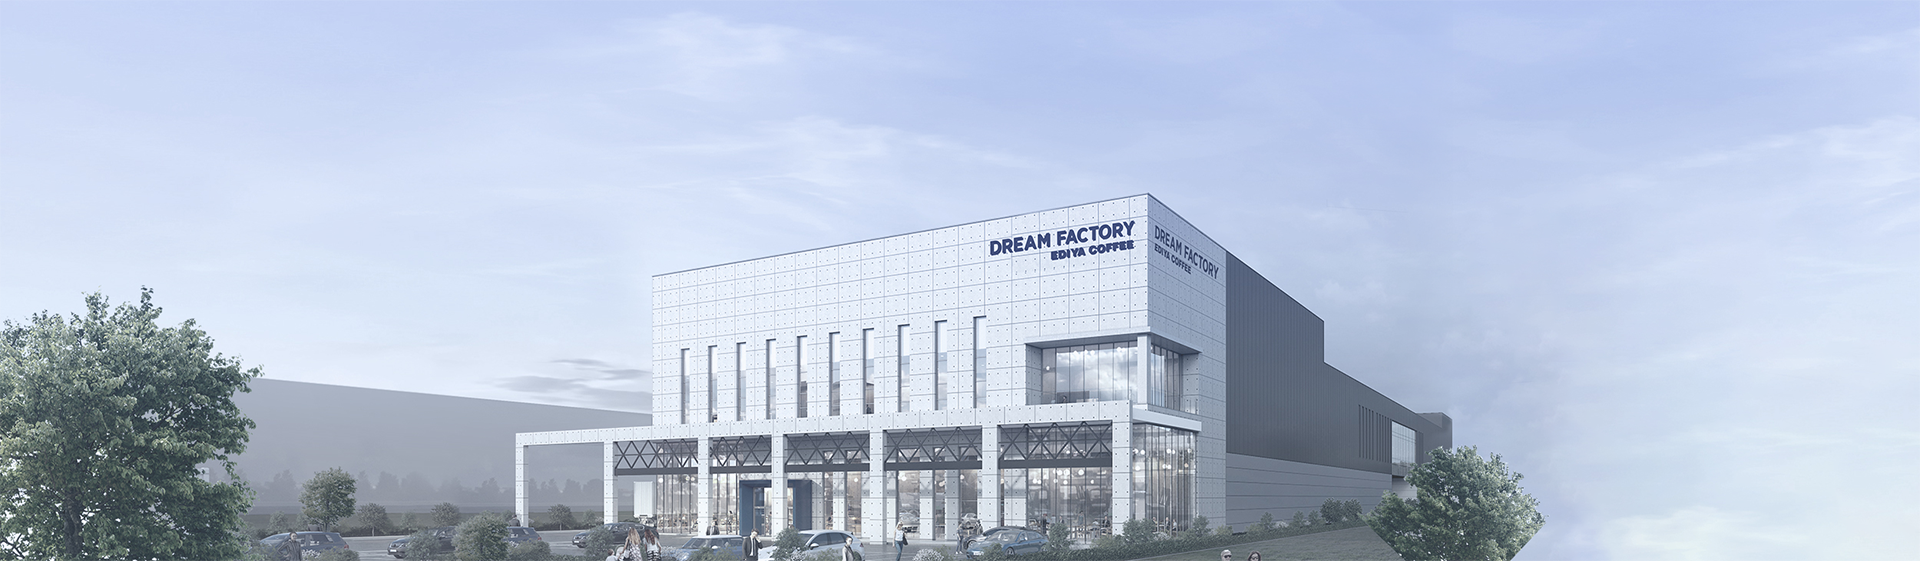
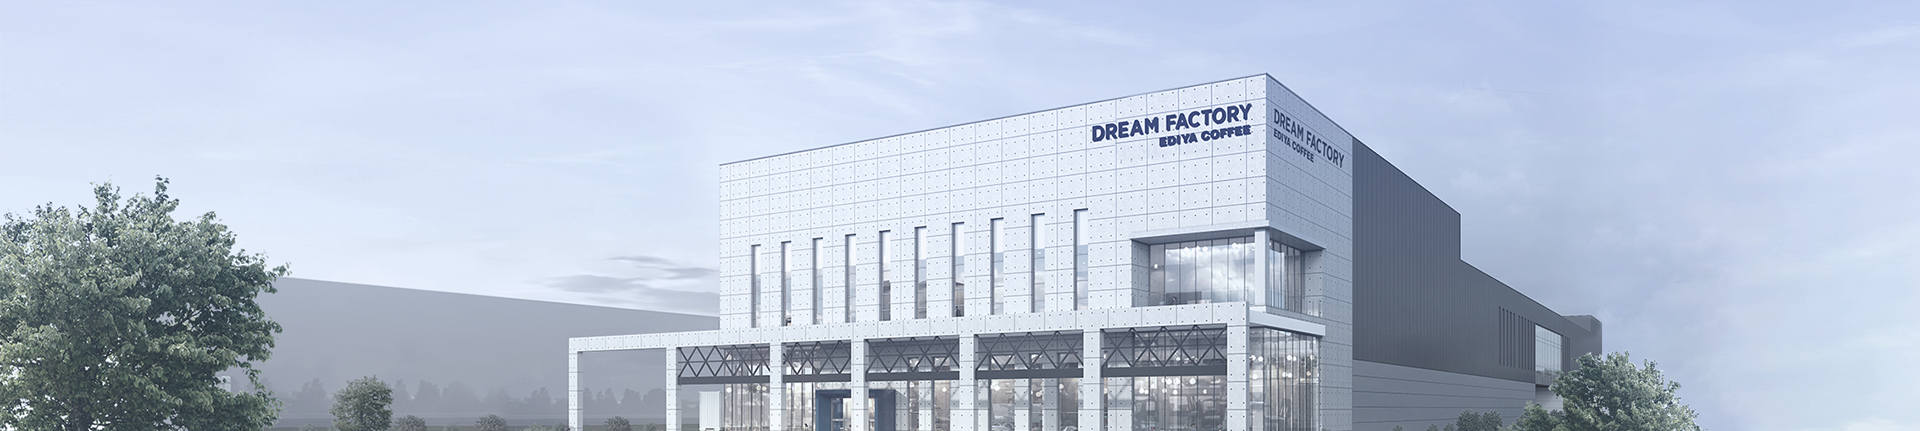
sub

diff --git a/src/story/Story.js b/src/story/Story.js
@@ -1,15 +1,19 @@
 import React from 'react'
 import style from './story.module.css'
 import Footer from '../footer/Footer'
+import '../App.css'; 
 
 const Story = () => {
   return (
     <>
+
       <TopBanner />
       <Ambition />
       <CoreValue />
       <Management />
       <Footer />
+  
+
     </>
 
   )
@@ -18,14 +22,14 @@ const Story = () => {
 function TopBanner(){
   return (
     <>
-      <div className='w-full h-[561px] bg-cover' style={{ backgroundImage: `url(${process.env.PUBLIC_URL}/subtitleBG.png)` }}>
+      <div className='w-full h-[431px] bg-cover' style={{ backgroundImage: `url(${process.env.PUBLIC_URL}/subtitleBG.png)` }}>
 
       </div>
     </>
   )
 }
 
-// 포부 첫번째 섹션
+// 포부 첫번째 섹션 // psd 레이아웃 완료 0816
 function Ambition() {
   return (
     <div className="w-full h-[1885px] bg-white flex justify-center relative">
@@ -33,32 +37,33 @@ function Ambition() {
         Ediya Coffee
       </div>
 
-      <div className="w-[1200px] h-full bg-red-100">
-        <div className="mt-[200px]">
-          <h4 className="text-[52px] font-semibold">
+      <div className="relative w-[1200px] h-full">
+
+        {/* Always Beside You */}
+        <div className="mt-[386px]">
+          <h4 className="text-[52px]  leading-[62px] ">
             Always Beside You,<br />
-            이디야커피는 언제나 당신 곁에 함께 합니다.
+            <span className='font-semibold'>이디야커피는 언제나 당신 곁에 함께 합니다.</span> 
           </h4>
-          <p className="text-black text-[30px] font-semibold mt-8 mb-[26px]">
+          <p className="text-black text-[30px] font-semibold mt-[40px] mb-[20px]">
             커피 한잔의 진심
           </p>
-          <p className="text-[16px] text-black">
-            해외에 로열티를 내지 않는 순수 국내 브랜드 이디야 커피,<br />
-            품질 좋고 맛있는 커피를 합리적인 가격으로 소비자에게<br />
-            제공하는 것을 우리의 진심이라 믿습니다. 더 맛있는<br />
-            커피를 만들기 위해 2010년 커피연구소 설립을 시작으로<br />
-            2016년 4월 '고객과 소통하는 커피연구소'를 테마로<br />
-            [이디야커피랩]을 오픈하여 더 나은 커피를 위해<br />
-            끊임없는 연구 개발을 진행하고 있습니다.
+          <p className="text-[24px] leading-[37px] text-black">
+            해외에 로열티를 내지 않는 순수 국내 브랜드 이디야 커피,품질 좋고 맛있는 커피를 합리적인 가격으로<br />
+            소비자에게 제공하는 것을 우리의 진심이라 믿습니다. 더 맛있는 커피를 만들기 위해 2010년<br /> 커피연구소 설립을 시작으로
+            2016년 4월 '고객과 소통하는 커피연구소'를 테마로 [이디야커피랩]을 오픈하여 더 나은<br /> 
+            커피를 위해 끊임없는 연구 개발을 진행하고 있습니다.
           </p>
         </div>
 
-        <div className="flex justify-between mt-[50px]">
+        {/* 상생협력 */}
+        <div className="flex justify-between mt-[282px]">
           <div className="text-black">
-            <h4 className="text-[52px] text-[#243c84] font-semibold">
-              함께 행복하기 위한 상생협력
+            <h4 className="text-[52px] text-[#243c84] leading-[62px] ">
+              함께 행복하기<br />
+              <span className='font-semibold'>위한 상생협력</span> 
             </h4>
-            <p className="text-[16px] mt-4">
+            <p className="text-[24px] leading-[39px] mt-[72px]">
               이디야커피는 고객, 가맹점주, 협력사와의<br />
               상생협력을 무엇보다 소중하게 생각합니다.<br />
               이디야커피의 "상생협력"은 정직과 신뢰를<br />
@@ -71,31 +76,32 @@ function Ambition() {
             </p>
           </div>
 
-          <img
-            className="object-cover mt-[60px]"
-            src={`${process.env.PUBLIC_URL}/humanBn.png`}
-            alt="Human"
-          />
+
+          
+        </div>
+
+        {/* 인물사진 */}
+        <div className='absolute top-[940px] left-[600px]'>
+          <img className="object-cover" src={`${process.env.PUBLIC_URL}/humanBn.png`} alt="Human"/> 
         </div>
       </div>
     </div>
   );
 }
 
-
+// PSD 레이아웃 완 0816  17:36
 function CoreValue() {
   return (
-    <div className="w-full h-[700px] bg-gray-300 flex justify-center">
+    <div className="w-full h-[700px] bg-[#edeef2] flex justify-center">
       <div className="w-[1200px] h-full flex flex-col items-center">
-        <div className="mt-[121px] text-center">
-          <h4 className="text-[52px] font-semibold mb-[10px]">이디야의 핵심가치</h4>
-          <p className="text-black text-2xl">
-            고객과 가맹점주, 협력사의<br />
-            상생의 가치를 실천합니다.
+        <div className="mt-[116px] text-center">
+          <h4 className="text-[52px] mb-[12px]">이디야의 <span className='font-semibold'>핵심가치</span></h4>
+          <p className="text-black text-[24px] font-semibold">
+            고객과 가맹점주, 협력사의 상생의 가치를 실천합니다.
           </p>
         </div>
 
-        <div className="mt-[120px] flex justify-center gap-32">
+        <div className="mt-[110px] flex justify-center gap-32">
           {[
             {
               imgSrc: "/coffeeIcon.png",
@@ -133,8 +139,9 @@ function CoreValue() {
 function Management() {
   return (
     <div className="w-full h-[2100px] flex justify-center relative">
-      {/* 이디야의 경영철학 */}
-      <div className="w-[1200px] h-full">
+      
+      <div className="w-[1200px] h-full bg-green-100">
+        {/* 이디야의 경영철학 */}
         <div className="flex justify-center mt-[156px] text-center">
           <h4 className="text-[52px]">
             이디야의 <span className="font-semibold">경영철학</span>
@@ -151,12 +158,13 @@ function Management() {
         </div>
 
         {/* 아이콘1 */}
-        <div className="relative top-[110px]">
+
+        <div className="relative top-[0]">
           <div className="absolute top-[74px] left-0 text-right">
             <h4 className="font-semibold text-[26px] text-black">
               기본을 지키는 정직한 기업
             </h4>
-            <p className="text-black text-[18px]">
+            <p className="text-black text-[18px] leading-[26px]">
               고객에게 우수한 품질의 커피를<br />
               합리적인 가격에 제공하고,<br />
               가맹점주를 위해 매장 수익을<br />
@@ -168,28 +176,28 @@ function Management() {
         </div>
 
         {/* 아이콘2 */}
-        <div className="relative top-[164px] left-[963px] text-right">
-          <div className="absolute top-0 left-0 text-left">
+        <div className="relative top-[0] left-[400px]">
+          <div className="absolute top-[74px] left-[563px]">
             <h4 className="font-semibold text-[26px] text-black">
-              신나고 행복한 즐거운 기업
+            신나고 행복한 즐거운 기업
             </h4>
-            <p className="text-black text-[18px]">
+            <p className="text-black text-[18px] leading-[26px]">
               수평적 소통이 이루어지는 젊은<br />
               기업문화 업계 최고 수준의<br />
               복지혜택을 통해 직원 모두가 즐겁게<br />
               일하는 기업을 만듭니다.
             </p>
           </div>
-          <img className="absolute top-[-33px] left-[-252px] object-cover" src={`${process.env.PUBLIC_URL}/Philosophy02.png`} alt="Philosophy Icon 2" />
+          <img className="absolute top-[2px] left-[314px] object-cover" src={`${process.env.PUBLIC_URL}/Philosophy02.png`} alt="Philosophy Icon 1" />
         </div>
 
-        {/* 아이콘3 */}
+        {/* 아이콘3 529*/}
         <div className="relative top-[529px] left-[145px] text-right bg-red-500">
           <div className="absolute top-0 left-0">
             <h4 className="font-semibold text-[26px] text-black">
               사람을 생각하는 따뜻한 기업
             </h4>
-            <p className="text-black text-[18px]">
+            <p className="text-black text-[18px] leading-[26px]">
               늘 고객의 입장에서 먼저 생각하고,<br />
               가맹점주의 입장을 배려하며<br />
               사회와 함께하려고 노력합니다.
@@ -199,44 +207,46 @@ function Management() {
         </div>
 
         {/* 글로벌 생산성 1위 */}
-        <div className="w-full flex flex-col items-center absolute top-[1080px] text-center">
-          <h4 className="text-[32px]">글로벌 생산성 1위</h4>
-          <h4 className="text-[48px] font-semibold mb-8">커피 전문기업 이디야 커피</h4>
-          <p className="text-black">
+        <div className="bg-red-100 relative w-full flex flex-col items-center absolute top-[848px] text-center">
+          <h4 className="text-[52px] preten-font300">글로벌 생산성 1위</h4>
+          <h4 className="text-[48px] font-semibold mb-[50px]">커피 전문기업 이디야 커피</h4>
+          <p className="text-black preten-font300 ">
             이디야(EDIYA)는 커피의 발상지인 에티오피아의 부족명인 동시에 대륙의 유일한 황제라는 뜻을 갖고,<br />
-            최고의 커피 브랜드를 추구하는 이디야의 비전을 상징합니다.
-          </p>
-          <p className="text-black">
+            최고의 커피 브랜드를 추구하는 이디야의 비전을 상징합니다.<br />
             - 이디야의 CI는 메뉴얼에 의거한 규정사항을 준수해야 합니다.<br />
             - 지정된 컬러를 반드시 사용하고, CI의 무단적인 변형도 일체 불허합니다.
           </p>
+
         </div>
 
         {/* 로고, 메인컬러 */}
-        <div className="flex justify-center gap-4 absolute top-[1485px]">
+        <div className="flex justify-center gap-[57px] absolute top-[1478px]">
+          {/* 왼쪽 */}
           <div className="border border-[#dcdddf]">
             <img className="object-cover" src={`${process.env.PUBLIC_URL}/ediyamainInfo.png`} alt="Ediya Main Info" />
           </div>
-          <div className="flex flex-col items-center gap-4 w-[591px] h-[419px]">
+          {/* 오른쪽 */}
+          <div className="flex flex-col items-center gap-[20px] w-[561px] h-[419px]">
             {[
               {
                 color: '#243c84',
                 title: 'Ediya Coffee Blue',
                 description: '품질에 대한 자신감',
-                hex: '#243c84',
+                hex: '#243c84 | R1, G47 B107',
               },
               {
                 color: '#dcdddf',
                 title: 'Ediya Coffee Gray',
                 description: '고객과의 소통',
-                hex: '#dcdddf',
+                hex: '#dcdddf | R220, G221 B223',
               },
+              // ㅅ수정
             ].map((item, index) => (
               <div key={index} className={`${style.borderBox}`}>
-                <div className="w-[150px] h-[150px]" style={{ backgroundColor: item.color }}></div>
+                <div className="w-[152px] h-[152px]" style={{ backgroundColor: item.color }}></div>
                 <div>
-                  <h4 className="text-black text-[24px] font-semibold">{item.title}</h4>
-                  <p className="text-black mb-4">{item.description}</p>
+                  <h4 className="text-black text-[27px] font-semibold">{item.title}</h4>
+                  <p className="text-black text-[20px] mb-4">{item.description}</p>
                   <p>{item.hex}</p>
                 </div>
               </div>

diff --git a/src/App.css b/src/App.css
@@ -31,9 +31,15 @@ body{
     color: #243c84;
     overflow-x: hidden;
     font-size: 16px;
+    letter-spacing: -0.05rem;
 }
 .preten-font {
     font-family: 'Pretendard-Regular', sans-serif;
+    letter-spacing: -0.05rem;
+}
+.preten-font300 {
+  font-family: 'Pretendard', sans-serif;
+  font-weight: 300;
 }
 
 .background{
